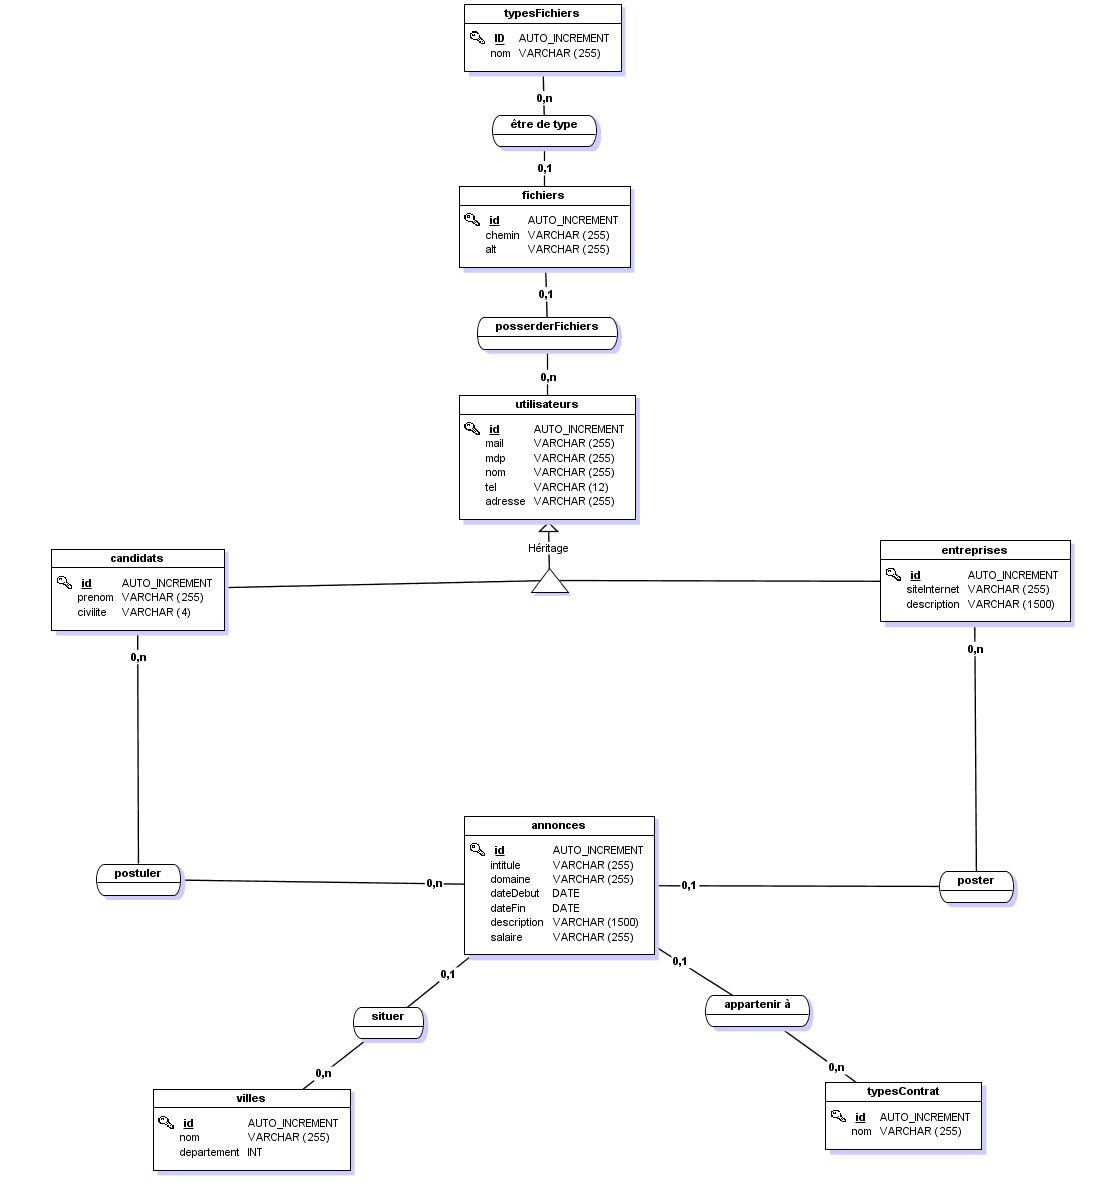
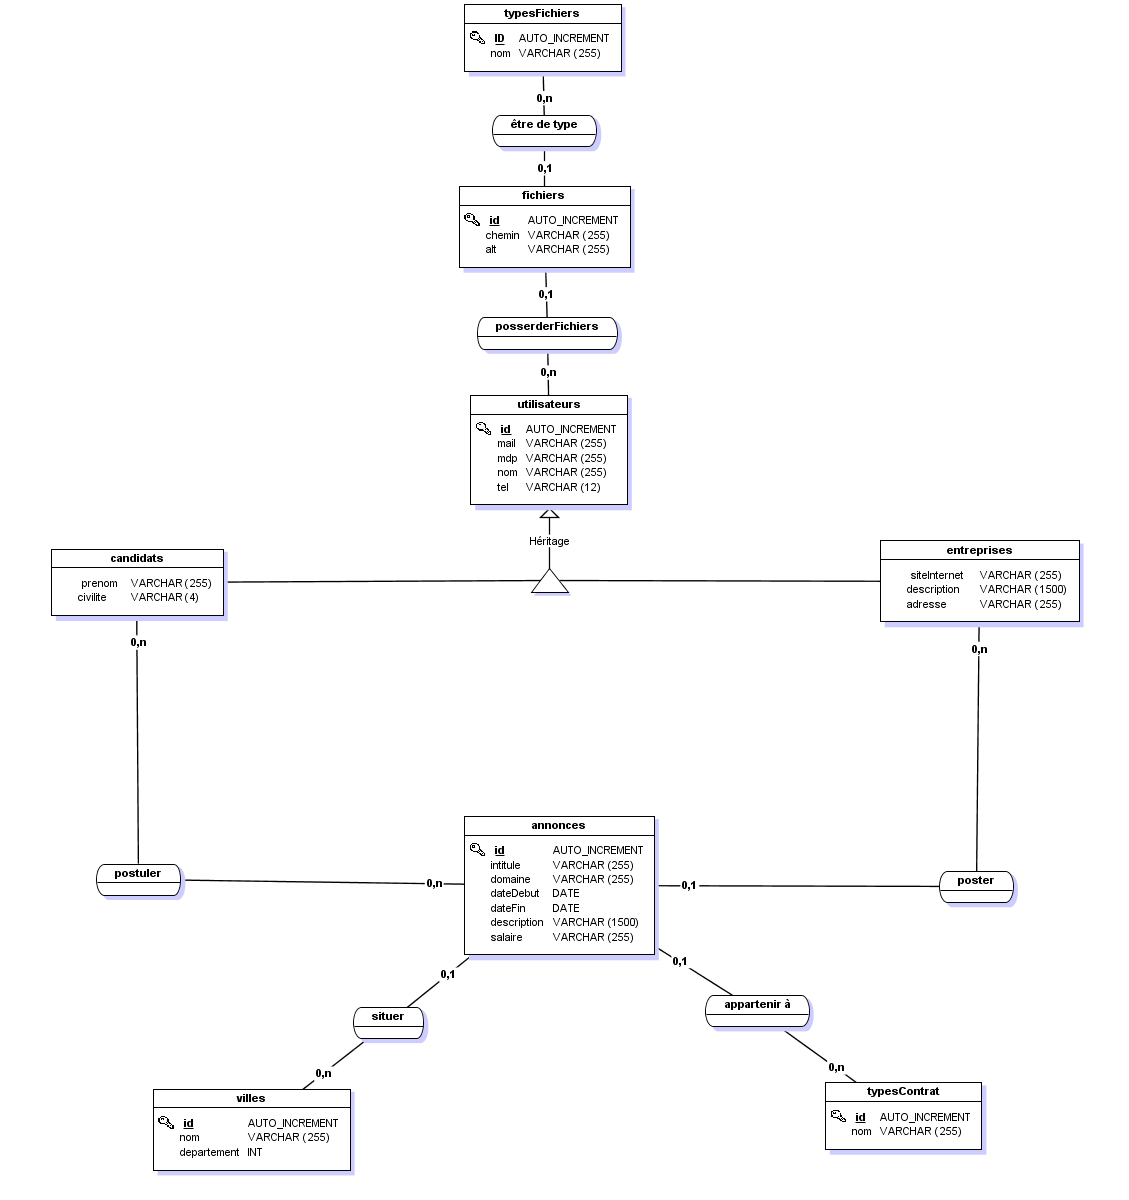
bdd v6
suppression de l'adresse dans les utilisateurs et ajout de ce dernier à l'entreprise.
création d'une méthode pour connaitre la class des utilisateurs

diff --git a/src/Model/Entreprise.php b/src/Model/Entreprise.php
@@ -8,6 +8,8 @@ class Entreprise extends Utilisateur
 {
     private $siteInternet;
     private $description;
+    private $adresse;
+
 
     public function __toString()
     {
@@ -19,6 +21,11 @@ class Entreprise extends Utilisateur
             }
         }
         return $toString.']';
+    }
+
+    public function getClassName()
+    {
+        return substr(strrchr(__CLASS__, "\\"), 1);
     }
 
     /**
@@ -51,5 +58,21 @@ class Entreprise extends Utilisateur
     public function setDescription($description)
     {
         $this->description = $description;
+    }
+
+    /**
+     * @return mixed
+     */
+    public function getAdresse()
+    {
+        return $this->adresse;
+    }
+
+    /**
+     * @param mixed $adresse
+     */
+    public function setAdresse($adresse)
+    {
+        $this->adresse = $adresse;
     }
 }

diff --git a/src/Model/Utilisateur.php b/src/Model/Utilisateur.php
@@ -11,7 +11,6 @@ class Utilisateur
     protected $mdp;
     protected $nom;
     protected $tel;
-    protected $adresse;
 
 
     public function __construct(array $arrayOfValues = null){
@@ -41,6 +40,13 @@ class Utilisateur
         }
         return $toString.']';
     }
+
+    public function getClassName()
+    {
+        return substr(strrchr(__CLASS__, "\\"), 1);
+    }
+
+
 
     /**
      * @return mixed
@@ -120,21 +126,5 @@ class Utilisateur
     public function setTel($tel)
     {
         $this->tel = $tel;
-    }
-
-    /**
-     * @return mixed
-     */
-    public function getAdresse()
-    {
-        return $this->adresse;
-    }
-
-    /**
-     * @param mixed $adresse
-     */
-    public function setAdresse($adresse)
-    {
-        $this->adresse = $adresse;
     }
 }

diff --git a/src/Model/candidat.php b/src/Model/candidat.php
@@ -21,6 +21,11 @@ class Candidat extends Utilisateur
         return $toString.']';
     }
 
+    public function getClassName()
+    {
+        return substr(strrchr(__CLASS__, "\\"), 1);
+    }
+
     /**
      * @return mixed
      */
